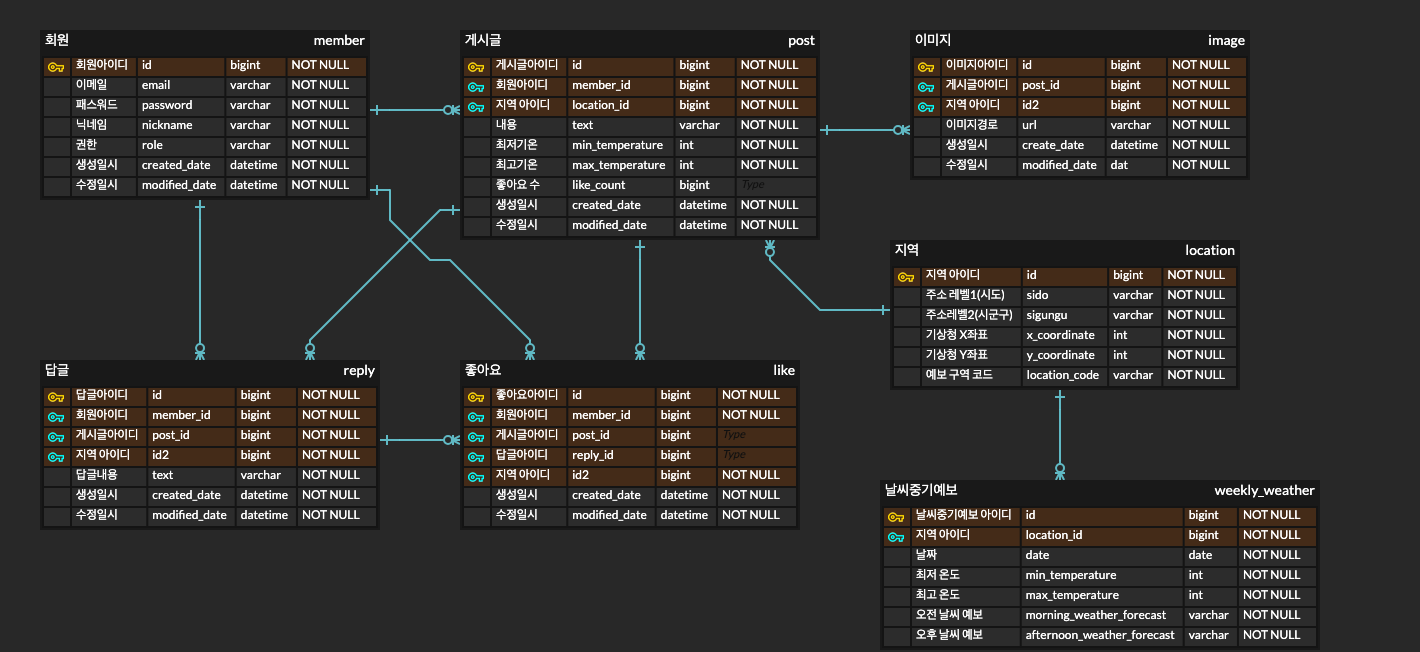
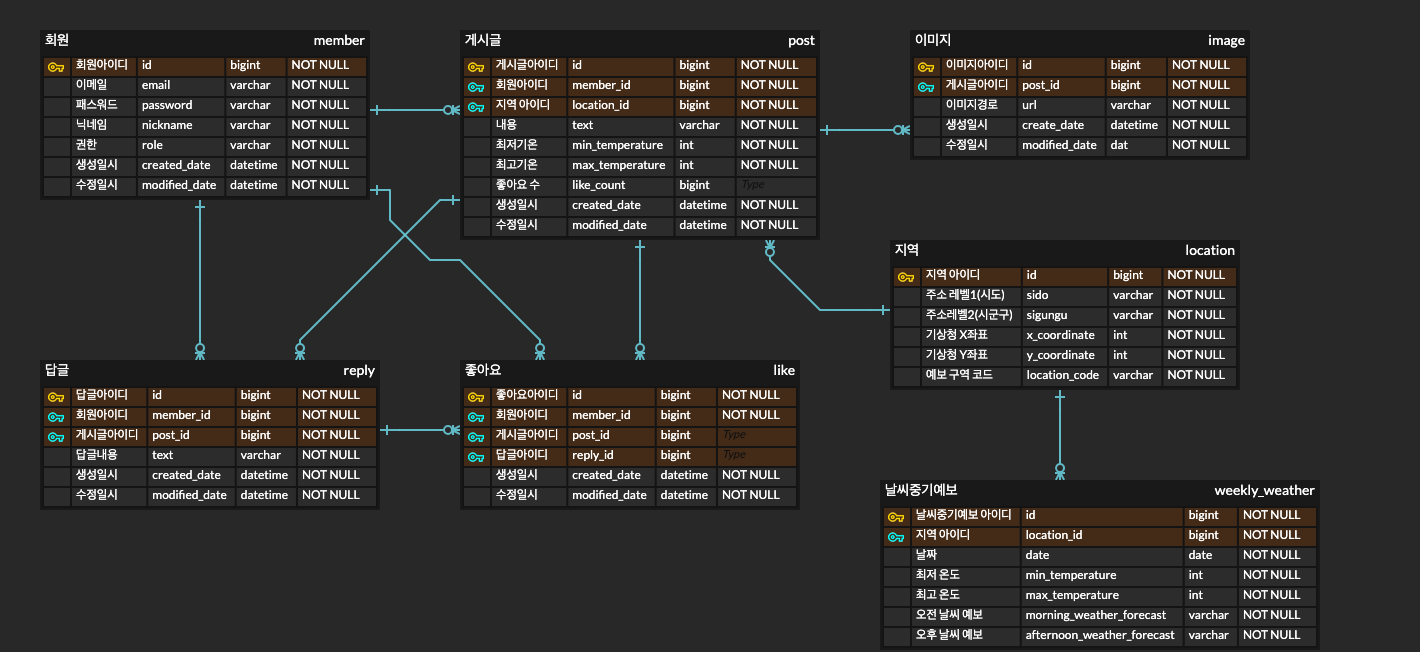
doc : erd 내용 수정 및 README 내용 수정(기온별 옷차림 관련 내용 추가)

diff --git a/README.md b/README.md
@@ -42,6 +42,9 @@
       - 단기 날씨는 매시 업데이트 되기 떄문에 캐시에만 저장
     - 오늘, 내일, 모레 날씨 최저 최고 온도, 하늘 상태(흐림, 맑음 등) 및 기온 구간마다 저장되어 있는 옷차림 목록 반환
   (ex. 평균 기온 18도 일 경우 17~19도 구간에 해당하여 니트, 가디건, 후드티, 맨투맨, 청바지, 면바지 등 반환)
+      - 옷차림의 경우 아래 이미지를 참고하여 enum으로 구성
+        ![dress](doc/img/dress.png)
+      
     - 시간별 온도, 강수확률 반환
 - 지역별 중기 날씨 정보 조회(3일 후 ~ 7일 후)
     - Open API를 통해 조회 및 db 저장(지역은 시/군/구 레벨로 조회)
@@ -75,6 +78,7 @@
     - 게시판 글 목록 정렬
         - 최신순, 좋아요, 기온별(평균기온) 오름차순/내림차순
 - 좋아요 기능
+    - 게시글 및 답글에 사용 가능
     - 로그인 한 회원만 가능
     - 회원 당 1회만 가능
     - 취소 가능
